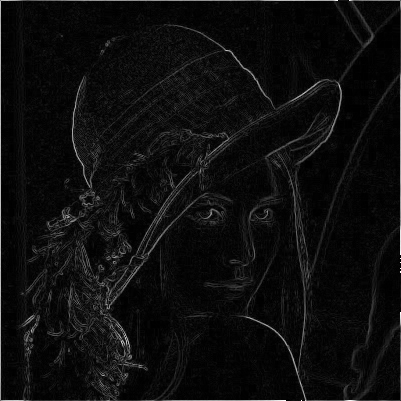
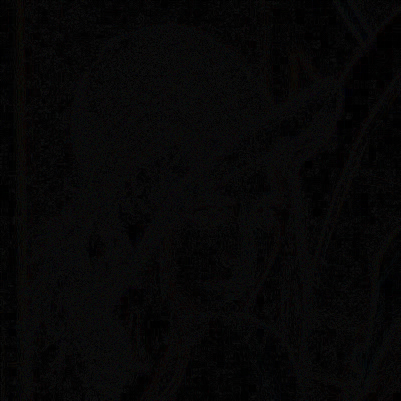
Filtros passa baixa e passa alta consertados.

diff --git a/test.py b/test.py
@@ -13,7 +13,7 @@ img_name = 'lena'
 #img_name_in = img_name+'.jpg'
 img_name_in = img_name+'.jpg'
 
-channels = 3
+channels = 1
 img = open_image(img_name_in, channels)
 img = pil_to_np(img)
 
@@ -35,7 +35,7 @@ fimg = high_pass_filter(img, selected=2,channels=channels)
 save_image(fimg, "wiki_roberts_filter_gray.png")
 
 fimg = high_pass_filter(img, selected=3,channels=channels)
-save_image(fimg, "wiki_laplacian_filter.png")
+save_image(fimg, "wiki_laplacian_filter_gray.png")
 
 
 '''
